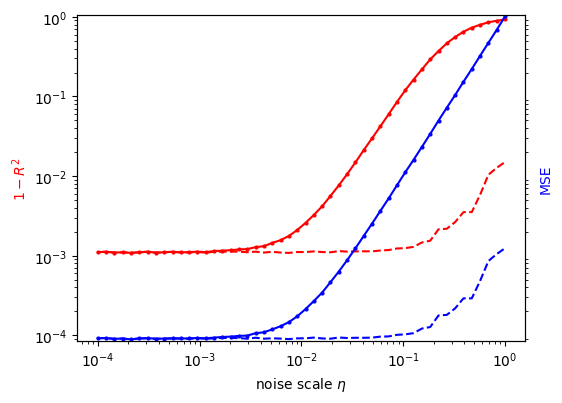
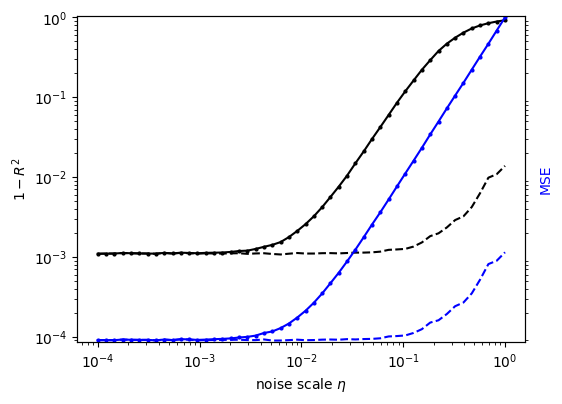
Redid R2/MSE as function of noise for OLS figure

diff --git a/project1/report/project1-report.tex b/project1/report/project1-report.tex
@@ -588,7 +588,7 @@ where $\mathcal{N}(\mu,\sigma)$ is normally distributed stochastic noise with me
 
 The variance increases as the noise overlying the Franke function increases. This is not unexpected, but it may be more interested to investigate how well the OLS model is able to fit the underlying function when the noise is included in the fitting. In order to visualize this, we plot $R^2$ and the mean squared error as functions of the noise scale factor $\eta$, \textit{and} the corresponding $R^2$ and MSE values \textit{relative to the plain Franke function with no noise}. For convenience we denote the $R^2$ score and the MSE values relative to the Franke function with no noise $R^2_{\eta=0}$ and MSE$_{\eta=0}$.
 
-If the model is able to fit the underlying function despite the noise, then the values of $1-R^2_{\eta=0}$ and MSE${}_{\eta=0}$ will remain low even as $1-R^2$ and the MSE relative to the noisy Franke function increases. Once $1-R^2_{\eta=0}$ and MSE${}_{\eta=0}$ start increasing, it means the noise is too much for the OLS scheme to handle and the fit is no longer representative of the underlying function. An example of this is shown in \fig{8}, where a $p=10$ order polynomial was used to fit for different $\eta$ values. We note that the dotted lines ($1-R^2_{\eta=0}$ and MSE${}_{\eta=0}$) remain essentially unchanged up to $\eta\approx 0.1$, meaning a signal to noise ratio of $\propto10$ is easily handled by our model. As $\eta$ increases further, the fit to the underlying Franke function becomes poorer, but surprisingly at $\eta=1$\textemdash at which the size of the noise is on the order of the size of the function itself\textemdash the model still represents a good fit to $f_\text{F}(x,y)$ at MSE$\approx10^{-3}$. Comparing to \fig{6} we see that this is close to the MSE of $p=6$ degree fit with $\eta=0$. 
+If the model is able to fit the underlying function despite the noise, then the values of $1-R^2_{\eta=0}$ and MSE${}_{\eta=0}$ will remain low even as $1-R^2$ and the MSE relative to the noisy Franke function increases. Once $1-R^2_{\eta=0}$ and MSE${}_{\eta=0}$ start increasing, it means the noise is too much for the OLS scheme to handle and the fit is no longer representative of the underlying function. An example of this is shown in \fig{8}, where a $p=10$ order polynomial was used to fit for different $\eta$ values. We note that the dotted lines ($1-R^2_{\eta=0}$ and MSE${}_{\eta=0}$) remain essentially unchanged up to $\eta\approx 0.1$, meaning a signal to noise ratio of $\propto10$ is easily handled by our model. As $\eta$ increases further, the fit to the underlying Franke function becomes poorer, but surprisingly at $\eta=1$\textemdash at which the size of the noise is on the order of the size of the function itself\textemdash the model still represents a good fit to $f_\text{F}(x,y)$ at MSE$\approx10^{-3}$. Comparing to \fig{6} we see that this is close to the MSE of $p=6$ degree fit with $\eta=0$.
 
 \begin{Figure}
 \centering
@@ -599,7 +599,7 @@ If the model is able to fit the underlying function despite the noise, then the 
 
 
 \subsubsection{Ridge regression on the Franke function}
-
+Having investigated the behaviour of the OLS scheme in some detail, we now turn to the Ridge regression method. Since this introduces a shrinkage parameter $\lambda$ it is natural to start with exploring how the MSE and the coefficient of determination depends on it.
 
 
 

diff --git a/project1/part_a.py b/project1/part_a.py
@@ -351,10 +351,10 @@ def fit_franke_noise() :
     print(R2_noise)
     print(1-np.array(R2_noise))
     fig, ax1 = plt.subplots()
-    ax1.loglog(noise, 1-np.array(R2_noise),'r-o',markersize=2)
-    ax1.loglog(noise, 1-np.array(R2),'r--',markersize=2)
+    ax1.loglog(noise, 1-np.array(R2_noise),'k-o',markersize=2)
+    ax1.loglog(noise, 1-np.array(R2),'k--',markersize=2)
     plt.xlabel(r"noise scale $\eta$", fontsize=10)
-    plt.ylabel(r"$1-R^2$", color='r', fontsize=10)
+    plt.ylabel(r"$1-R^2$", color='k', fontsize=10)
 
     ax2 = ax1.twinx()
     ax2.loglog(noise, np.array(MSE_noise), 'b-o',markersize=2)
@@ -376,7 +376,8 @@ if __name__ == '__main__':
     #plot_betaVariance()
     #plot_terrain()
     #plot_MSE_R2()
-    fit_franke_noise()
+    #fit_franke_noise()
+    
 
 
 
